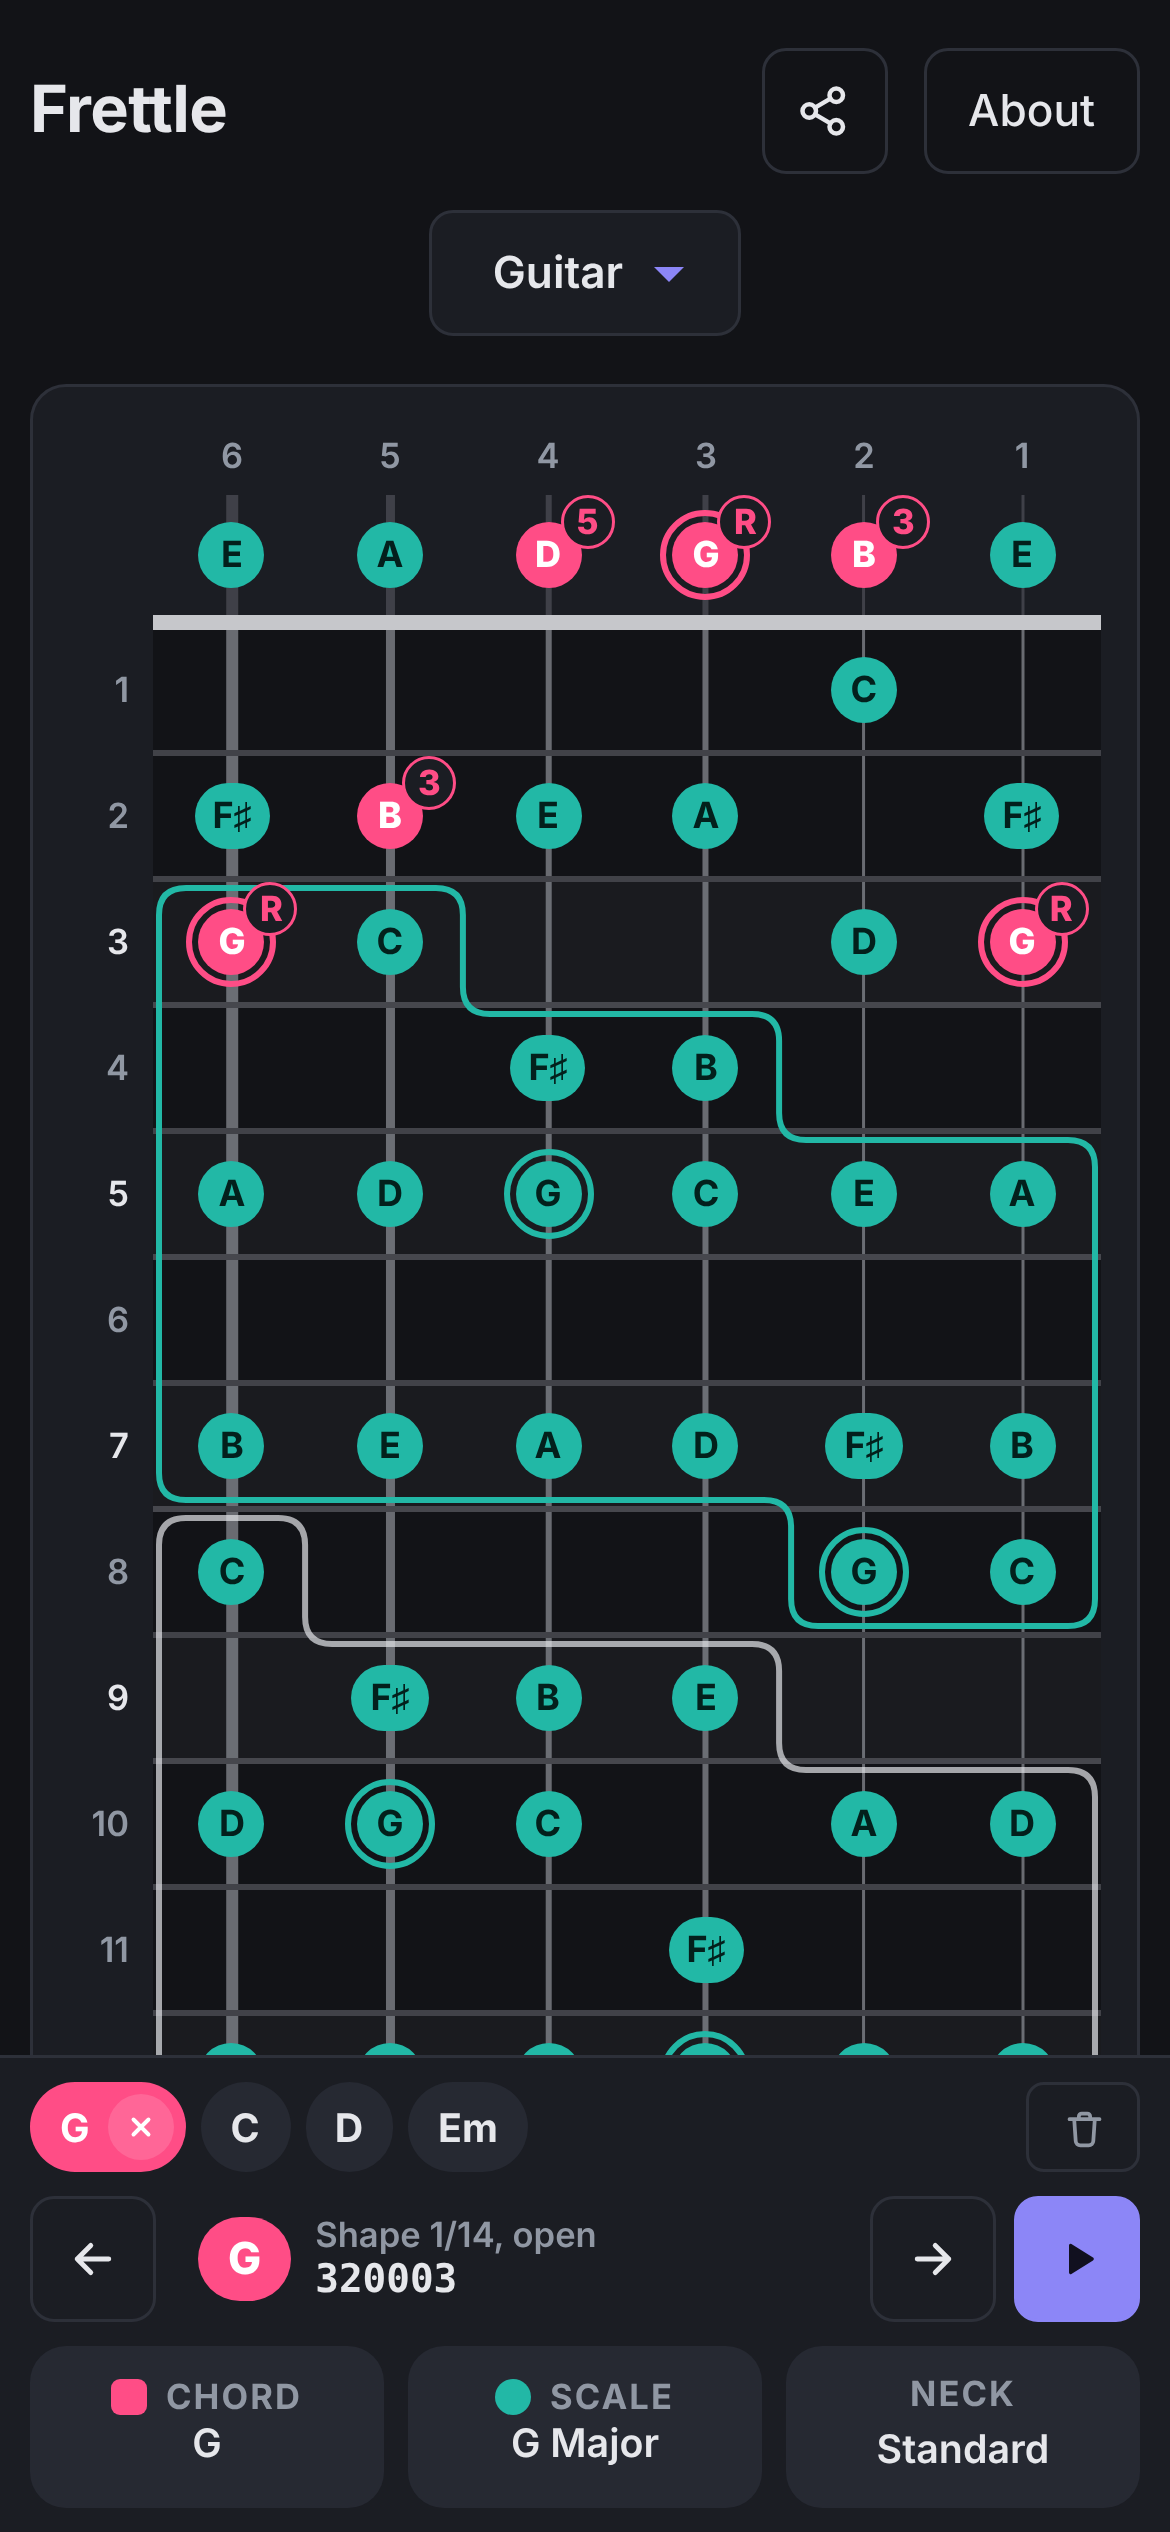
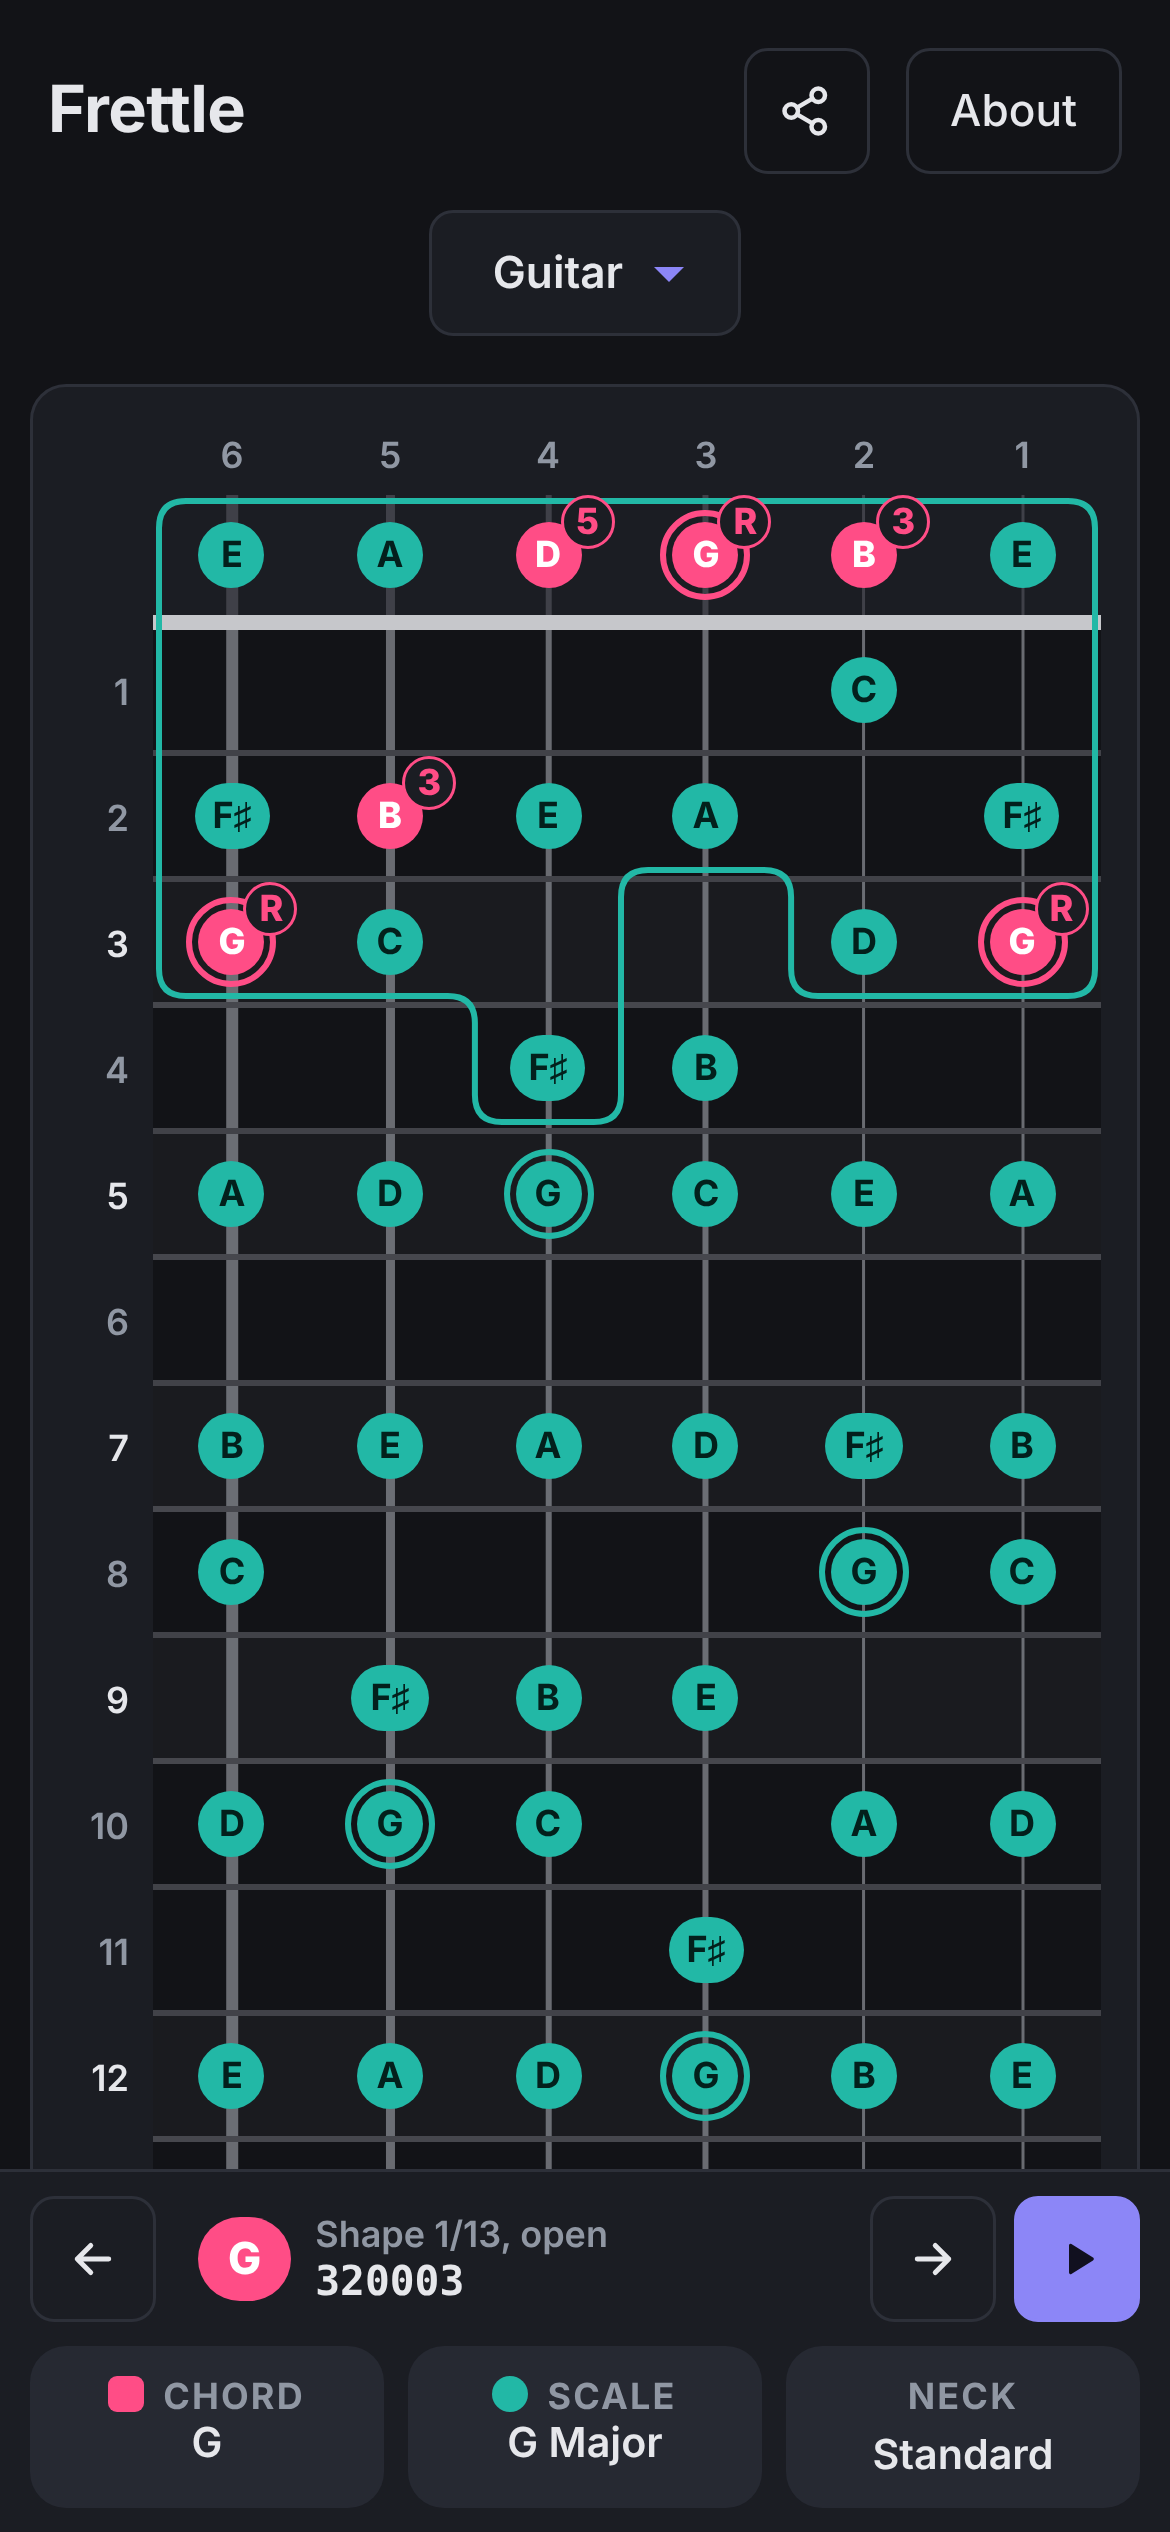
docs: readme refresh

diff --git a/web/script.js b/web/script.js
@@ -2663,11 +2663,9 @@ function renderNeck(ch, sc) {
   drawGroups();
 }
 
-/* Draw the group picked (ui.groups[ui.group]) in the scale's colour, and
-   with it, in white, the groups that share no note with it nor with each
-   other: every other group, going out from it both ways, as far as the
-   neck goes. Stepping to the next group shows the other half. Each is an
-   outline measured from the cells on screen: an SVG path that is inset a
+/* Draw the group picked (ui.groups[ui.group]) in the scale's colour, one
+   at a time (the arrows and chips step through them). It is an outline
+   measured from the cells on screen: an SVG path that is inset a
    little from the cells and has every corner rounded, inner ones included.
    Redrawn whenever the neck changes size. */
 const GROUP_INSET = 2;   // keeps the line clear of a root note's ring
@@ -2700,8 +2698,7 @@ function drawGroups() {
         u1: r.right - box.left - px('borderRightWidth') - px('paddingRight'),
         v0: r.top - box.top, v1: r.bottom - box.top };
   };
-  const shown = shownGroups();
-  layer.innerHTML = shown.map((g) => {
+  layer.innerHTML = [group].map((g) => {   // one group at a time: the one picked
     const bars = g.bars.map(({ s, a, b }) => {
       const first = cellBox(s, a);
       const last = cellBox(s, b);
@@ -2709,24 +2706,8 @@ function drawGroups() {
       return { u0: Math.min(first.u0, last.u0), u1: Math.max(first.u1, last.u1), v0: first.v0, v1: first.v1 };
     }).sort((p, q) => p.v0 - q.v0);
     const points = staircase(bars, GROUP_INSET).map(([u, v]) => (vertical ? [v, u] : [u, v]));
-    return `<path class="${g === group ? 'g-a' : 'g-b'}" d="${roundedPath(points, GROUP_RADIUS)}"/>`;
+    return `<path class="g-a" d="${roundedPath(points, GROUP_RADIUS)}"/>`;
   }).join('');
-}
-
-/* The groups drawn: the one picked, then going out from it both ways, each
-   group that shares no note (no fret on the same string) with those before */
-function shownGroups() {
-  const group = ui.groups[ui.group];
-  if (!group) return [];
-  const share = (g, h) => g.bars.some((x) => h.bars.some((y) => x.s === y.s && x.a <= y.b && y.a <= x.b));
-  const shown = [group];
-  for (const step of [-1, 1]) {
-    for (let i = ui.group + step; i >= 0 && i < ui.groups.length; i += step) {
-      const g = ui.groups[i];
-      if (!shown.some((h) => share(g, h))) shown.push(g);
-    }
-  }
-  return shown;
 }
 
 /* Outline of stacked bars (one per string, each covering a range along u),
@@ -2957,13 +2938,12 @@ function renderGroupLine(sc) {
   els.groupPrev.disabled = els.groupNext.disabled = ui.groups.length < 2;
   if (!on) { els.groupList.innerHTML = ''; return; }
   const c = capo();
-  const shown = new Set(shownGroups());   // drawn on the neck: white chips, the one picked in the scale's colour
   els.groupList.dataset.empty = 'No group fits on this neck';
   els.groupList.innerHTML = ui.groups.map((g, i) => {
     const sel = i === ui.group;
     const [a, b] = groupFrets(g);
     const place = groupPlace(g, c);
-    return `<li><button type="button" class="chip group-chip${sel ? ' selected' : shown.has(g) ? ' shown' : ''}" data-group="${i}" aria-pressed="${sel}" ` +
+    return `<li><button type="button" class="chip group-chip${sel ? ' selected' : ''}" data-group="${i}" aria-pressed="${sel}" ` +
       `title="Group ${i + 1}, frets ${a} to ${b}"><span class="tx">${place[0].toUpperCase()}${place.slice(1)}</span></button></li>`;
   }).join('');
   requestAnimationFrame(() => keepChipVisible(els.groupList));

diff --git a/web/styles.css b/web/styles.css
@@ -492,7 +492,6 @@ kbd {
 .chip.selected { background: var(--chord); color: var(--chord-text); }
 .chip.selected .chip-num { color: var(--chord-text); opacity: 0.8; }
 .group-chip.selected { background: var(--scale); color: var(--scale-text); }   /* scale groups: the scale's colour */
-.group-chip.shown { background: color-mix(in srgb, var(--pk-white) 82%, var(--bg)); color: var(--pk-black); }   /* drawn in white on the neck */
 
 /* ==========================================================================
    Neck. Phones: vertical (nut on top, low string on the left, frets going
@@ -703,8 +702,8 @@ kbd {
 }
 
 /* Scale groups: rounded outlines (an SVG drawn by script.js), above the
-   strings and fret wires, below the note pills: the group picked in the
-   scale's colour, the others shown with it in white */
+   strings and fret wires, below the note pills: one at a time, the group
+   picked, in the scale's colour */
 .group-layer {
   position: absolute;
   left: 0;
@@ -715,7 +714,6 @@ kbd {
 }
 .group-layer path { fill: none; stroke-width: 2; stroke-linejoin: round; }
 .group-layer .g-a { stroke: var(--scale); }   /* the group picked */
-.group-layer .g-b { stroke: color-mix(in srgb, var(--pk-white) 70%, transparent); }   /* the others shown with it */
 /* A note lights up in amber while it sounds */
 @keyframes ping {
   0% { box-shadow: 0 0 0 0 var(--warn); transform: scale(1.18); }

diff --git a/README.md b/README.md
@@ -16,16 +16,21 @@ A fretboard visualizer for guitar, bass, ukulele, mandolin, mandola and banjo. P
 
 ## What it does
 
-- Shows every note on the neck for guitar (6 or 7 strings), bass (4 or 5 strings), ukulele (standard and baritone), mandolin, mandola and 5-string banjo (its short drone string included)
-- Common alternate tunings: guitar Drop D, DADGAD, open G, half step down and a few more, ukulele high or low G, banjo double C, G modal and open D
-- Chords: pick a root and a type, then flip through the shapes up the neck. Each note shows its interval (R, 3, 5...) and barres are drawn in
-- The chords you play stay in a chord list, so you can jump between the chords of a song. Each one keeps the shape you picked
-- Share a link to what's on the neck: the chord, the scale and, if you want, your chord list with its shapes. Save it or send it to a friend to bring a song's chords back later. Opening a link asks what to load before it replaces anything of yours
-- Scales: the modes, minors, pentatonics, blues and a few more, with their formula, the scales that share their notes and the triads that fit. You can step through it one hand-sized group at a time (the pentatonic boxes, the CAGED positions) or hide the notes outside it
-- Capo, octave shading, a left-handed mode, and tap any note to hear it or strum the whole chord
-- Tells you when a chord fits the scale you picked
-- Spells notes for the key, so you get F♯ in D major and B♭ in F major
-- Built for phones first, works offline once loaded, and can be added to your home screen (PWA)
+- Every note on the neck: guitar (6 or 7 strings), bass (4 or 5), ukulele, baritone ukulele, mandolin, mandola, 5-string banjo
+- Alternate tunings: Drop D, DADGAD, open tunings, half or whole step down, low G ukulele, banjo double C and more
+- Chords in any key, every shape up the neck, with intervals on each note and barres drawn in
+- Voicings: root position, any inversion, or any bass note
+- Chord list: the chords you play, each keeping its shape and voicing, to jump around a song
+- Scales: modes, minors, pentatonics, blues and more, with formula, related scales and fitting triads
+- Scale groups: one hand-sized box at a time (pentatonic boxes, CAGED positions)
+- Only the scale's notes, or every note on the neck
+- Capo, octave shading, left-handed mode
+- Tap a note to hear it, strum a chord, play a scale
+- Warns when a chord has notes outside the scale
+- Notes spelled for the key: F♯ in D major, B♭ in F major
+- Share links: neck, chord, scale and chord list, you pick what goes in
+- Opening a link shows what it changes before loading anything
+- Phone first, works offline, installable (PWA)
 
 ## Running it yourself
 
